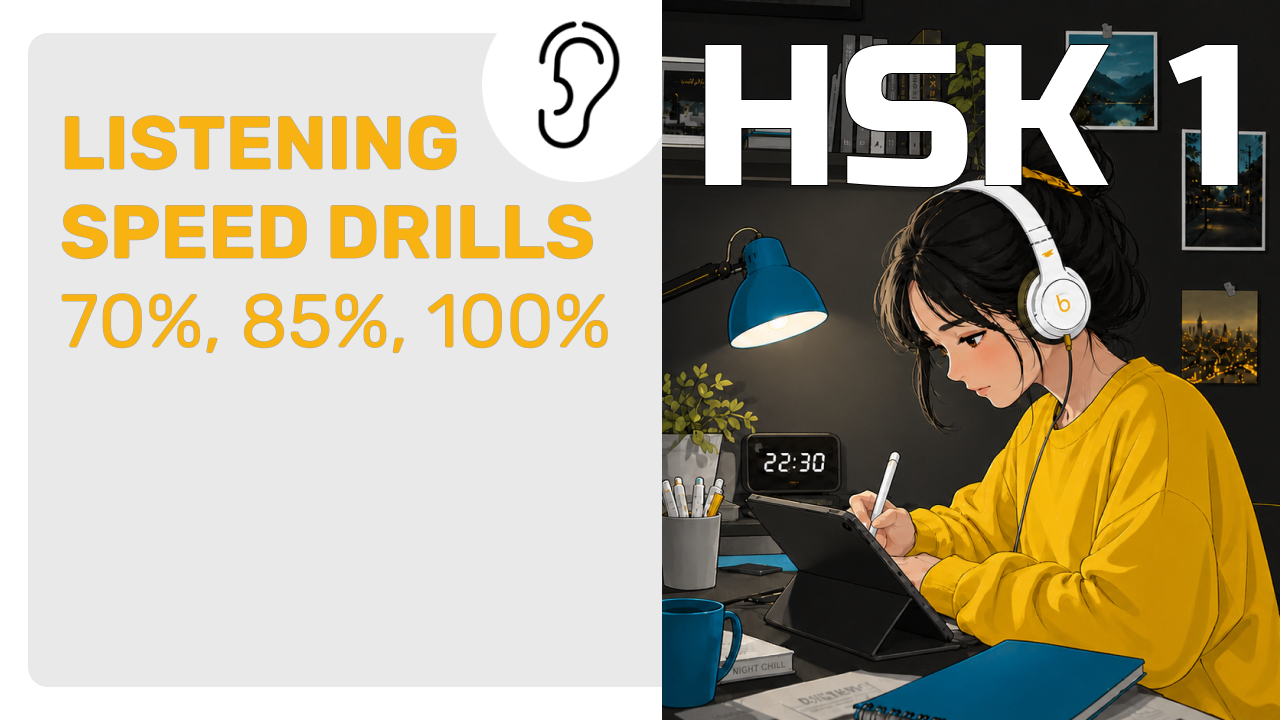
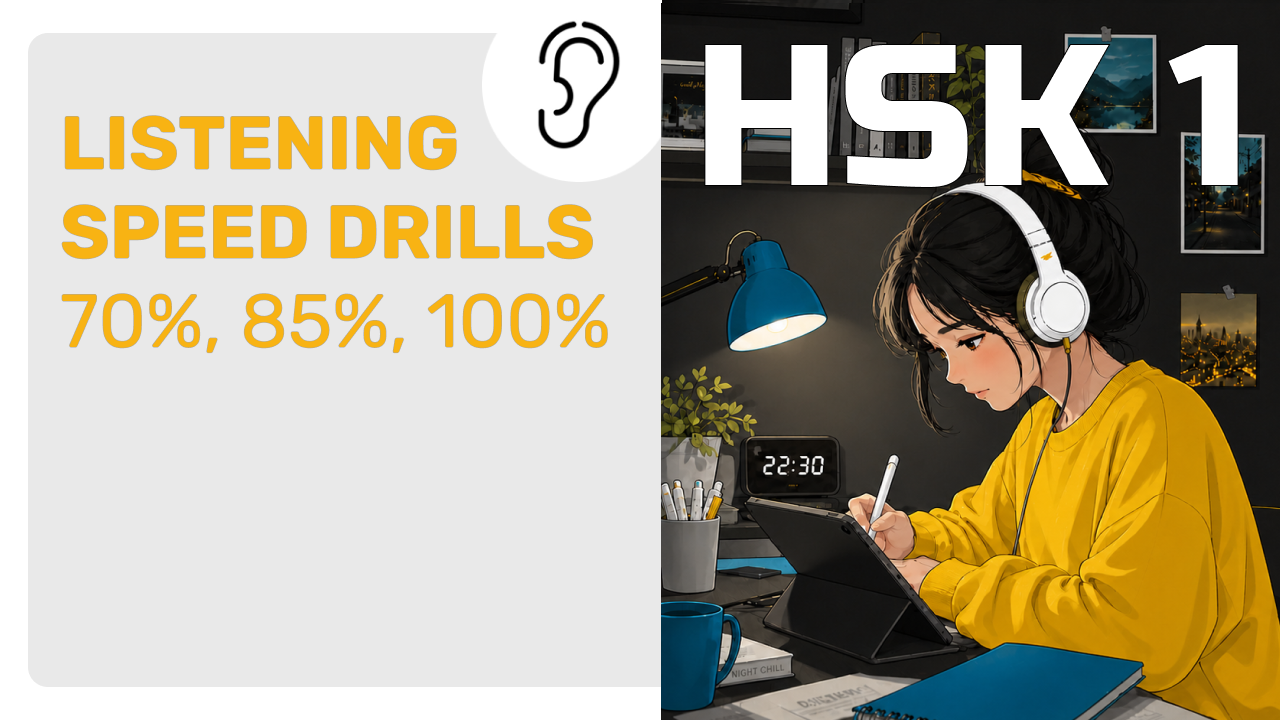
Working system

diff --git a/server/lib/listeningOverlayNode.js b/server/lib/listeningOverlayNode.js
@@ -259,9 +259,9 @@ export async function renderListeningOverlayNode({
 }
 
 /**
- * HSK1 set thumbnail: two lines — "20 Phrases" then "[First] to [Last]".
+ * HSK1 set thumbnail: two lines — "Set N" then "[First] to [Last]".
  */
-export async function renderHsk1SetThumbnail({ firstWord, lastWord, outPath }) {
+export async function renderHsk1SetThumbnail({ setIndex, firstWord, lastWord, outPath }) {
   ensureFonts()
   const basePath = path.join(PUBLIC_DIR, 'ThumbnailBase_HSK1.png')
   if (!fs.existsSync(basePath)) throw new Error(`Thumbnail base missing: ${basePath}`)
@@ -271,7 +271,8 @@ export async function renderHsk1SetThumbnail({ firstWord, lastWord, outPath }) {
   const ctx = canvas.getContext('2d')
   ctx.drawImage(base, 0, 0)
 
-  const line1 = '20 Phrases'
+  const n = Number(setIndex) || 1
+  const line1 = `Set ${n}`
   const line2 = `${firstWord} to ${lastWord}`
   const fontSize = 85
   const lineGap = Math.round(fontSize * 1.15)

diff --git a/server/lib/hsk1SetMeta.js b/server/lib/hsk1SetMeta.js
@@ -10,7 +10,7 @@ export function buildHsk1SetMeta({ setIndex, firstWord, lastWord, phrases, timel
   const first = String(firstWord || '').trim()
   const last = String(lastWord || '').trim()
 
-  const title = `Chinese Listening Drills | New HSK 1 (2026 3.0)  | ${first} to ${last} | Set ${n}`
+  const title = `Chinese Listening Drills Set ${n} | New HSK 1 (2026 3.0)  | ${first} to ${last}`
 
   const timestampBlocks = (Array.isArray(phrases) ? phrases : [])
     .map((s, i) => {

diff --git a/server/lib/generateListeningSet.js b/server/lib/generateListeningSet.js
@@ -142,7 +142,12 @@ export async function generateListeningSet({
 
   onProgress?.({ phase: 'thumbnail', message: `Set ${set.setIndex}: thumbnail…` })
   const thumbPath = path.join(packageDir, 'thumbnail.png')
-  await renderHsk1SetThumbnail({ firstWord, lastWord, outPath: thumbPath })
+  await renderHsk1SetThumbnail({
+    setIndex: set.setIndex,
+    firstWord,
+    lastWord,
+    outPath: thumbPath,
+  })
 
   const meta = {
     setIndex: set.setIndex,
